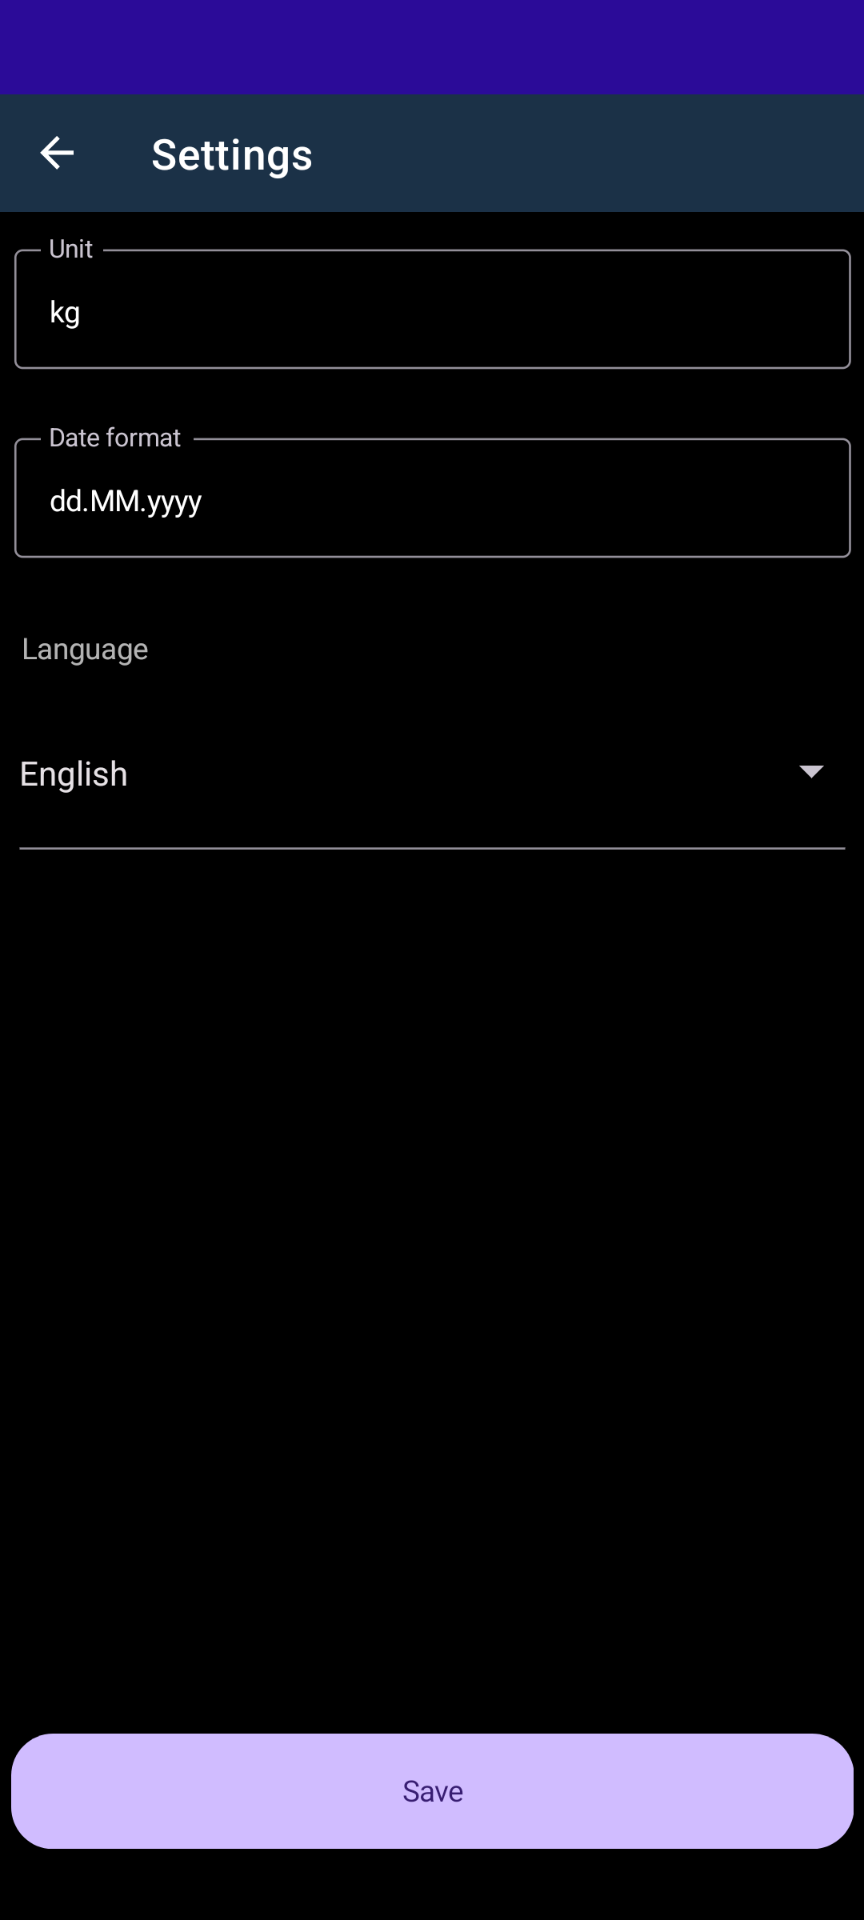
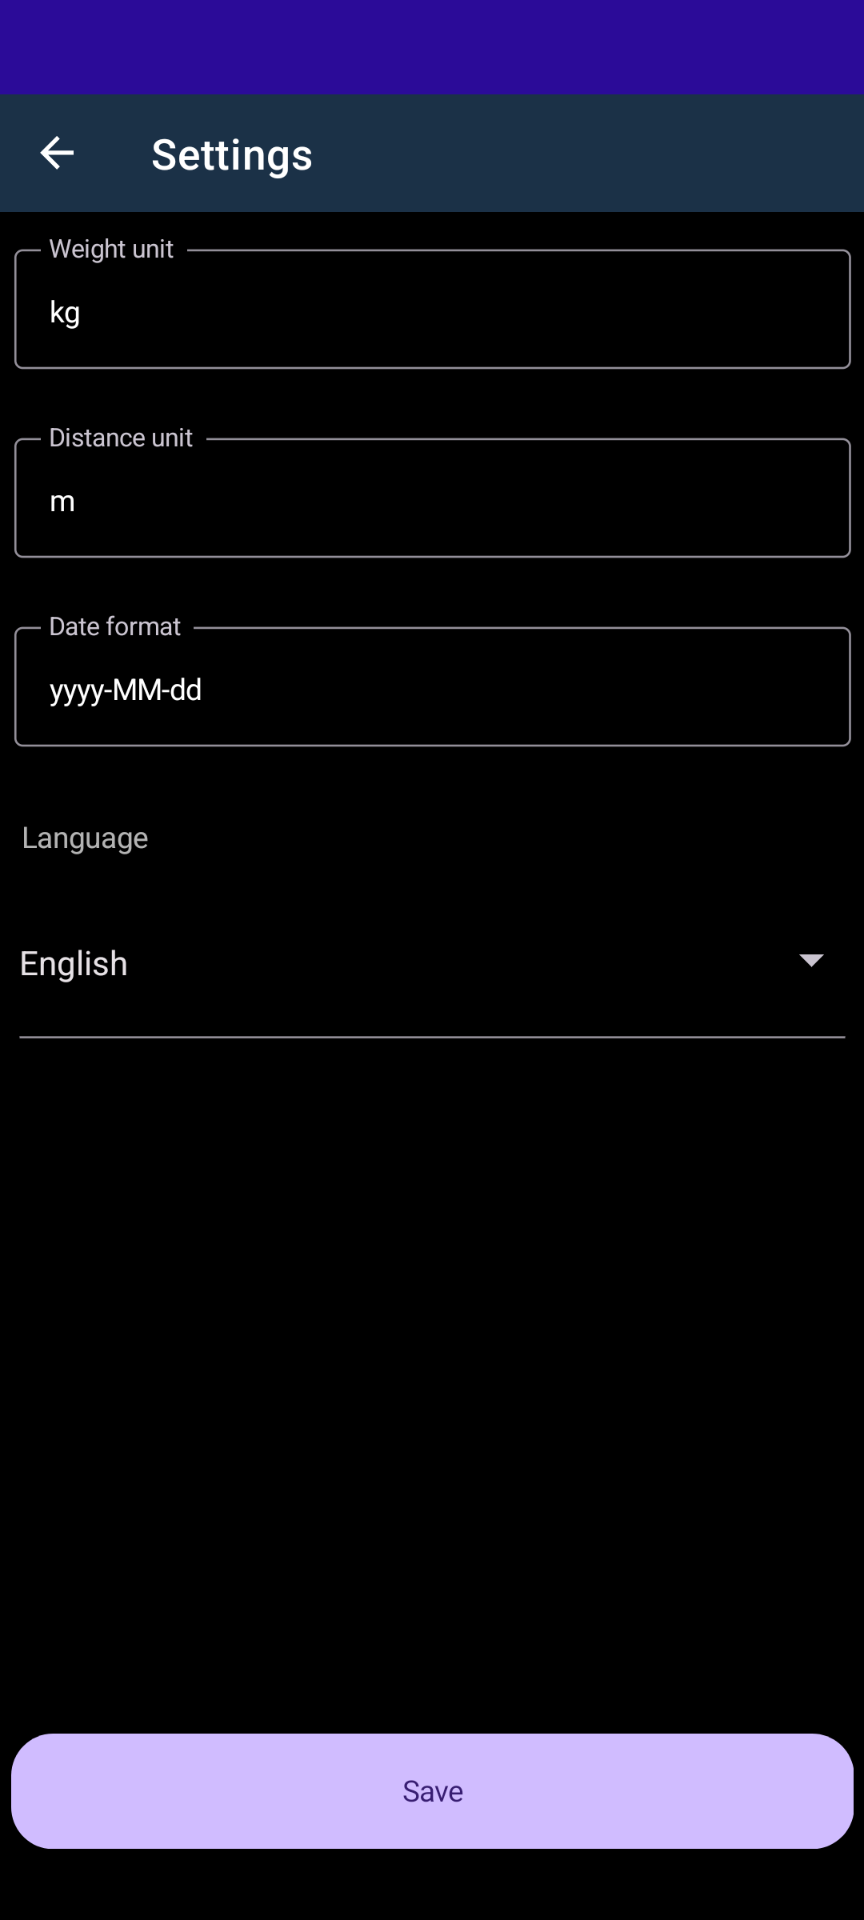
Update ReadMe and Screenshots

diff --git a/README.md b/README.md
@@ -84,10 +84,10 @@ This is an overview screen in which all maximum values for the respective moveme
 <img src="./.github/images/settings_view.png" alt="Settings" style="width:250px;"/>
 
 ### Weight unit
-The weight unit is a free text field and is only used for display purposes. No conversions take place when changing.
+The weight unit is a free text field and is only used to display weights for movements and workouts. No conversions take place when changing.
 
 ### Distance unit
-The distance unit is a free text field and is only used for display purposes. No conversions take place when changing.
+The distance unit is a free text field and is only used to display distances for movements and workouts. No conversions take place when changing.
 
 ### Date format
 You can use a format identifier to specify how your date format should be displayed. For example, yyyy-MM-dd (ISO 8601 Date Format) displays the date as follows: 2023-12-31. See the [standard date and time format specifiers](https://learn.microsoft.com/en-us/dotnet/standard/base-types/standard-date-and-time-format-strings#table-of-format-specifiers). Invalid inputs can lead to the date no longer being displayed correctly.
